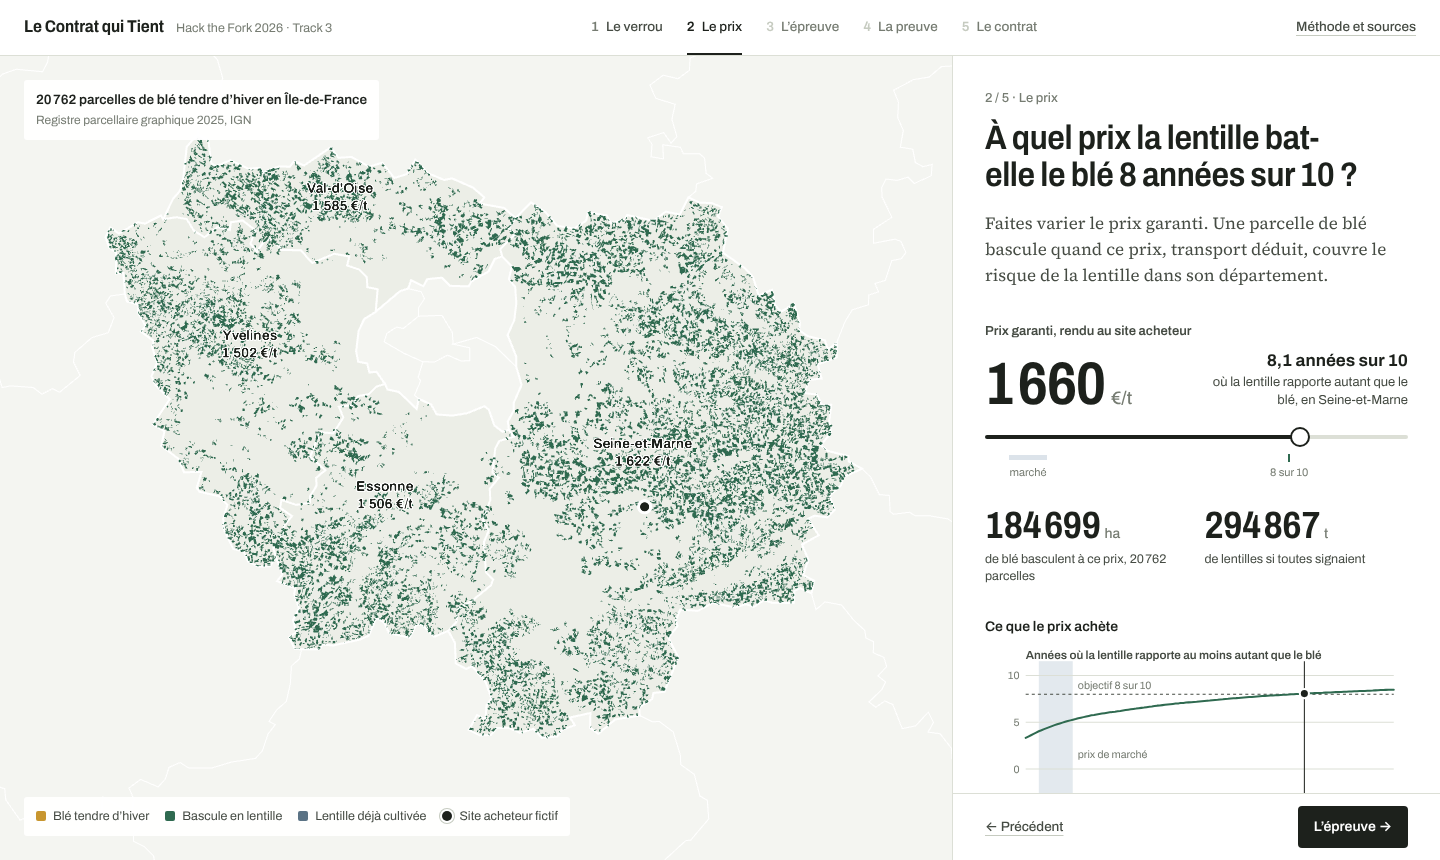
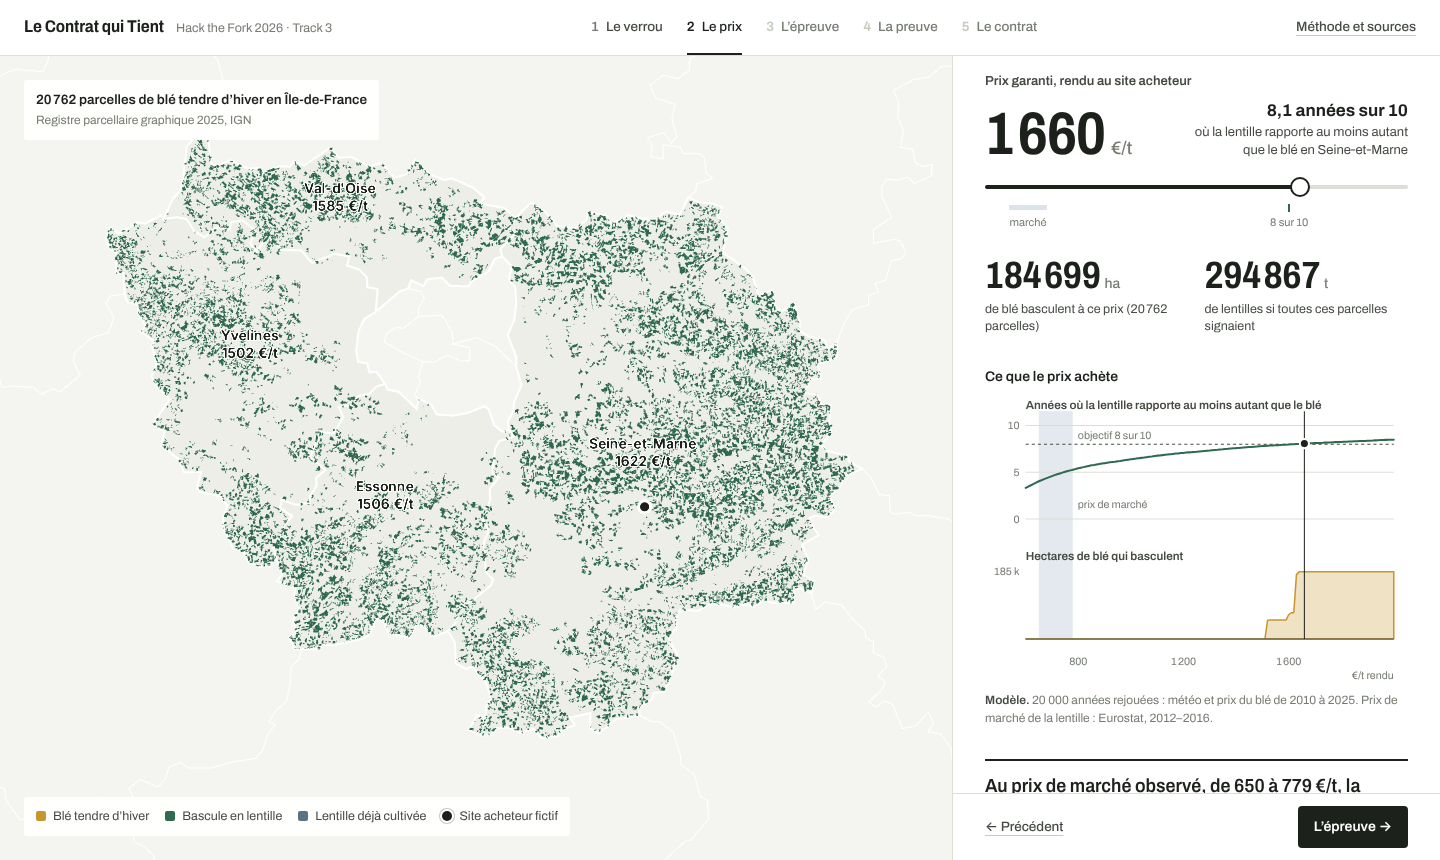
Finitions : textes, étape 4 recentrée sur les contrats tenus, étiquettes de carte
Les prix 2026 de chaque modèle passent dans Méthode et sources, avec
l'explication de l'incertitude de modèle.

Claude-Session: https://claude.ai/code/session_015xc9sW8eqY5kEx39k7wsjx

diff --git a/app/src/App.tsx b/app/src/App.tsx
@@ -24,7 +24,6 @@ const VOLUME = (meta.hypotheses as any).volume_vise_t.valeur as number;
 const BT2020 = backtest.annees.find((y) => y.annee === 2020)!;
 const START_PRICE = 900;
 const IC77 = (D77 as any).p_star_ic80 as [number, number] | undefined;
-const STRAT = (meta as any).strategies_77 as { moyenne: number; M0: number; M1: number; M2: number };
 const reduce = window.matchMedia?.('(prefers-reduced-motion: reduce)').matches;
 const pos = (p: number) => `${((p - MIN) / (MAX - MIN)) * 100}%`;
 
@@ -185,7 +184,7 @@ export default function App() {
                 <label htmlFor="price">Prix garanti, rendu au site acheteur</label>
                 <div className="readout">
                   <output htmlFor="price">{fmt(price)}<span className="unit">€/t</span></output>
-                  <p><b>{dec(rel * 10, 1)} années sur 10</b> où la lentille rapporte autant que le blé, en Seine-et-Marne</p>
+                  <p><b>{dec(rel * 10, 1)} années sur 10</b> où la lentille rapporte au moins autant que le blé en Seine‑et‑Marne</p>
                 </div>
                 <div className="range">
                   <input id="price" type="range" min={MIN} max={MAX} step={5} value={price} style={{ ['--fill' as any]: pos(price) }}
@@ -200,8 +199,8 @@ export default function App() {
               </div>
               <div className="block">
                 <div className="figures two">
-                  <Figure value={fmt(haT)} unit="ha" label={`de blé basculent à ce prix, ${fmt(stats.n)} parcelles`} />
-                  <Figure value={fmt(stats.tonnes)} unit="t" label="de lentilles si toutes signaient" />
+                  <Figure value={fmt(haT)} unit="ha" label={`de blé basculent à ce prix (${fmt(stats.n)} parcelles)`} />
+                  <Figure value={fmt(stats.tonnes)} unit="t" label="de lentilles si toutes ces parcelles signaient" />
                 </div>
               </div>
               <div className="block">
@@ -296,16 +295,16 @@ export default function App() {
               <div className="block">
                 <h3>Ce que le modèle apporte au prix</h3>
                 <table className="list models">
-                  <thead><tr><th>Façon de fixer le prix</th><th className="num">Contrats tenus</th><th className="num">P* 2026, 77</th></tr></thead>
+                  <thead><tr><th>Façon de fixer le prix</th><th className="num">Contrats tenus</th></tr></thead>
                   <tbody>
-                    <tr><td>Moyennes des années passées<span>la pratique courante</span></td><td className="num bad">{pct(G.taux_tenus_moyenne)}</td><td className="num">{fmt(STRAT.moyenne)} €/t</td></tr>
-                    <tr><td>Distribution calibrée, sans météo<span>tendance seule</span></td><td className="num">{pct(G.taux_tenus_M0)}</td><td className="num">{fmt(STRAT.M0)} €/t</td></tr>
-                    <tr className="hl"><td>Régression quantile avec météo<span>modèle d’apprentissage retenu avant tout résultat</span></td><td className="num">{pct(G.taux_tenus)}</td><td className="num">{fmt(STRAT.M1)} €/t</td></tr>
-                    <tr><td>LightGBM avec météo<span>gradient boosting</span></td><td className="num bad">{pct(G.taux_tenus_M2)}</td><td className="num">{fmt(STRAT.M2)} €/t</td></tr>
+                    <tr><td>Moyennes des années passées<span>la pratique courante</span></td><td className="num bad">{pct(G.taux_tenus_moyenne)}</td></tr>
+                    <tr><td>Distribution calibrée, sans météo<span>tendance seule</span></td><td className="num">{pct(G.taux_tenus_M0)}</td></tr>
+                    <tr className="hl"><td>Régression quantile avec météo<span>modèle d’apprentissage retenu avant tout résultat</span></td><td className="num">{pct(G.taux_tenus)}</td></tr>
+                    <tr><td>LightGBM avec météo<span>gradient boosting</span></td><td className="num bad">{pct(G.taux_tenus_M2)}</td></tr>
                   </tbody>
                 </table>
-                <p className="body small">Fixer le prix sur les moyennes, comme aujourd’hui, ne tient qu’un contrat sur trois : c’est le verrou. Une distribution calibrée dépasse 8 sur 10, et la météo y ajoute quatre points. LightGBM, plus précis sur l’année moyenne, sous-estime les mauvaises années. Le prix 2026 change beaucoup d’un modèle à l’autre : c’est une incertitude que nous affichons.</p>
-                <Source k="modele">Backtest glissant 2019–2025 sur {G.n_cas} cas, 80 % visés. Précision de chaque modèle dans Méthode et sources.</Source>
+                <p className="body small">Avec un prix calculé sur les moyennes, comme aujourd’hui, un contrat sur trois seulement aurait tenu : c’est le verrou. Une distribution calibrée fait passer au-dessus de 8 sur 10, et la météo y ajoute quatre points. LightGBM, plus précis sur l’année moyenne, sous-estime les mauvaises années.</p>
+                <Source k="modele">Backtest glissant 2019–2025 sur {G.n_cas} cas, 80 % visés. Précision et prix 2026 de chaque modèle dans Méthode et sources.</Source>
               </div>
               <div className="block">
                 <h3>Ce que le modèle a appris de la météo</h3>

diff --git a/app/src/components/Method.tsx b/app/src/components/Method.tsx
@@ -38,6 +38,7 @@ function value(k: string, v: any): string {
 
 export default function Method({ onClose }: { onClose: () => void }) {
   const G = backtest.global as Record<string, number>;
+  const STRAT = (meta as any).strategies_77 as { moyenne: number; M0: number; M1: number; M2: number };
   const coefs = meta.coefficients_M1_lentille as Record<string, Record<string, number>>;
   return (
     <div className="sheet" role="dialog" aria-modal="true" aria-labelledby="method-title">
@@ -78,15 +79,16 @@ export default function Method({ onClose }: { onClose: () => void }) {
         <section>
           <h3>Comparaison des modèles sur le backtest</h3>
           <table className="tbl">
-            <thead><tr><th>Modèle</th><th className="num">Perte pinball</th><th className="num">Couverture à 80 %</th></tr></thead>
+            <thead><tr><th>Modèle</th><th className="num">Perte pinball</th><th className="num">Couverture à 80 %</th><th className="num">P* 2026, 77</th></tr></thead>
             <tbody>
-              <tr><td>Tendance seule (référence)</td><td className="num">{G.pinball_M0.toLocaleString('fr-FR')}</td><td className="num">{pct(G.couverture_M0)}</td></tr>
-              <tr className="hl"><td>Régression quantile météo, retenue</td><td className="num">{G.pinball_M1.toLocaleString('fr-FR')}</td><td className="num">{pct(G.couverture_M1)}</td></tr>
-              <tr><td>LightGBM quantile (gradient boosting)</td><td className="num">{G.pinball_M2.toLocaleString('fr-FR')}</td><td className="num">{pct(G.couverture_M2)}</td></tr>
-              <tr><td>Choix automatique sur validation interne</td><td className="num">{G.pinball_auto.toLocaleString('fr-FR')}</td><td className="num">{pct(G.couverture_auto)}</td></tr>
+              <tr><td>Moyennes des années passées (sans modèle)</td><td className="num">—</td><td className="num">—</td><td className="num">{STRAT.moyenne.toLocaleString('fr-FR')} €/t</td></tr>
+              <tr><td>Tendance seule (référence)</td><td className="num">{G.pinball_M0.toLocaleString('fr-FR')}</td><td className="num">{pct(G.couverture_M0)}</td><td className="num">{STRAT.M0.toLocaleString('fr-FR')} €/t</td></tr>
+              <tr className="hl"><td>Régression quantile météo, retenue</td><td className="num">{G.pinball_M1.toLocaleString('fr-FR')}</td><td className="num">{pct(G.couverture_M1)}</td><td className="num">{STRAT.M1.toLocaleString('fr-FR')} €/t</td></tr>
+              <tr><td>LightGBM quantile (gradient boosting)</td><td className="num">{G.pinball_M2.toLocaleString('fr-FR')}</td><td className="num">{pct(G.couverture_M2)}</td><td className="num">{STRAT.M2.toLocaleString('fr-FR')} €/t</td></tr>
+              <tr><td>Choix automatique sur validation interne</td><td className="num">{G.pinball_auto.toLocaleString('fr-FR')}</td><td className="num">{pct(G.couverture_auto)}</td><td className="num">—</td></tr>
             </tbody>
           </table>
-          <p className="note">{backtest.protocole} Le modèle retenu a été choisi avant tout résultat. Contrats tenus : {pct(G.taux_tenus_moyenne)} avec un prix fixé sur les moyennes, {pct(G.taux_tenus_M0)} avec la tendance seule, {pct(G.taux_tenus)} avec la régression quantile météo, {pct(G.taux_tenus_M2)} avec LightGBM, {pct(G.taux_tenus_auto)} avec le choix automatique. Les modèles les plus précis sous-estiment les mauvaises années. Nous avons aussi testé une régularisation choisie en validation interne : plus précise, mais moins bien calibrée ; elle n’est pas retenue.</p>
+          <p className="note">{backtest.protocole} Le modèle retenu a été choisi avant tout résultat. Contrats tenus : {pct(G.taux_tenus_moyenne)} avec un prix fixé sur les moyennes, {pct(G.taux_tenus_M0)} avec la tendance seule, {pct(G.taux_tenus)} avec la régression quantile météo, {pct(G.taux_tenus_M2)} avec LightGBM, {pct(G.taux_tenus_auto)} avec le choix automatique. Les modèles les plus précis sous-estiment les mauvaises années. Le prix 2026 varie fortement d’un modèle à l’autre (de {STRAT.M2.toLocaleString('fr-FR')} à {STRAT.M0.toLocaleString('fr-FR')} €/t) : c’est une incertitude de modèle, qui s’ajoute à l’incertitude statistique. Nous avons aussi testé une régularisation choisie en validation interne : plus précise, mais moins bien calibrée ; elle n’est pas retenue.</p>
         </section>
 
         <section>

diff --git a/app/src/components/MapScene.tsx b/app/src/components/MapScene.tsx
@@ -2,7 +2,7 @@ import { useEffect, useMemo, useRef, useState } from 'react';
 import DeckGL from '@deck.gl/react';
 import { FlyToInterpolator, MapView, type MapViewState } from '@deck.gl/core';
 import { GeoJsonLayer, PolygonLayer, ScatterplotLayer, TextLayer } from '@deck.gl/layers';
-import { contours, DEP_NAMES, fmt, france, H, held, meta, parcels, thresholds, type Parcel, type ReplayYear } from '../data';
+import { contours, DEP_NAMES, france, H, held, meta, parcels, thresholds, type Parcel, type ReplayYear } from '../data';
 
 type RGB = [number, number, number];
 // Mêmes valeurs que les jetons de docs/DESIGN.md.
@@ -123,7 +123,7 @@ export default function MapScene({ step, price, year, selectKm, onHover }: Props
       }),
       new TextLayer({
         id: `dep-labels-${fontsReady}`, data: DEP_LABELS, visible: step === 1,
-        getPosition: (d: any) => d.pos, getText: (d: any) => `${d.name}\n${fmt(d.pStar).replace(/\u202f/g, ' ')} €/t`,
+        getPosition: (d: any) => d.pos, getText: (d: any) => `${d.name}\n${d.pStar} €/t`,
         getSize: 14, getColor: C.ink, fontFamily: font, fontWeight: 600, lineHeight: 1.25, getPixelOffset: [0, -22],
         outlineWidth: 6, outlineColor: [255, 255, 255, 235], fontSettings: { sdf: true, fontSize: 64, buffer: 8 },
         characterSet: 'auto',

diff --git a/app/src/styles.css b/app/src/styles.css
@@ -148,7 +148,7 @@ h3 { font-family: var(--sans); font-weight: 600; font-size: 14px; line-height: 1
 .readout { display: flex; align-items: flex-end; justify-content: space-between; gap: var(--s5); margin: var(--s2) 0 var(--s3); }
 .readout output { font-family: var(--sans); font-weight: 700; font-stretch: 80%; font-size: 60px; line-height: .95; letter-spacing: -0.02em; font-variant-numeric: tabular-nums; white-space: nowrap; }
 .readout output .unit { font-weight: 500; font-stretch: 100%; font-size: 18px; color: var(--mute); margin-left: 6px; letter-spacing: 0; }
-.readout p { margin: 0 0 4px; max-width: 200px; font-family: var(--sans); font-size: 13px; line-height: 1.4; color: var(--ink-2); text-align: right; }
+.readout p { margin: 0 0 4px; max-width: 236px; font-family: var(--sans); font-size: 13px; line-height: 1.4; color: var(--ink-2); text-align: right; }
 .readout p b { display: block; font-weight: 700; font-size: 17px; color: var(--ink); font-variant-numeric: tabular-nums; }
 .range { position: relative; padding-bottom: 26px; }
 .range input { -webkit-appearance: none; appearance: none; display: block; width: 100%; height: 24px; margin: 0; background: transparent; cursor: pointer; }
